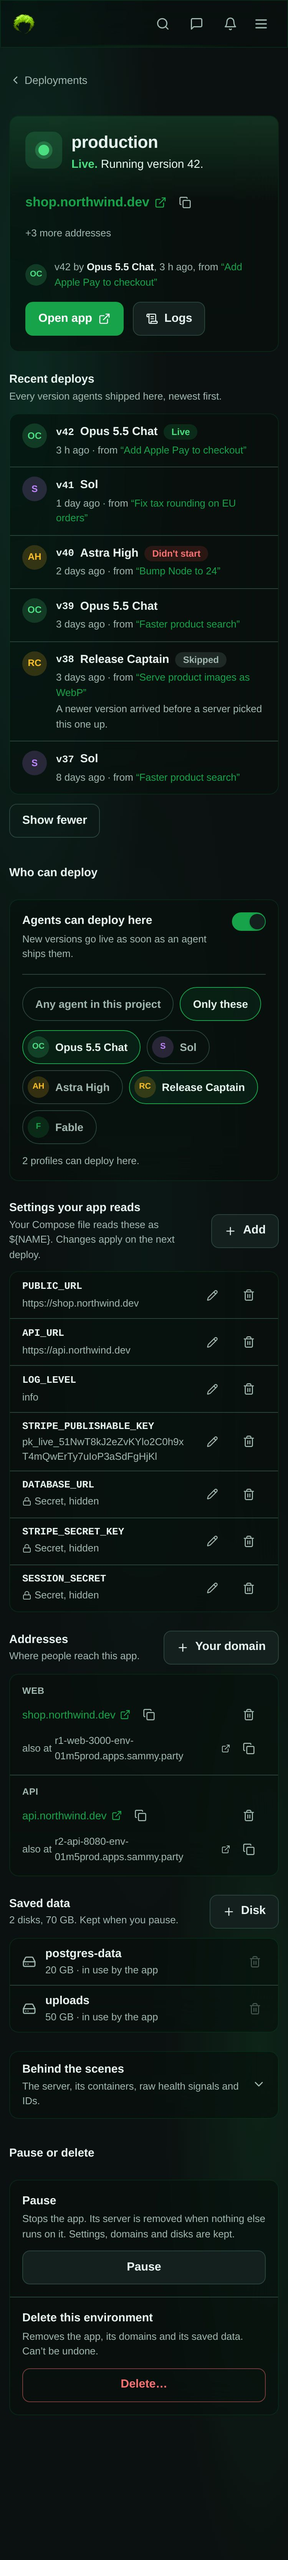
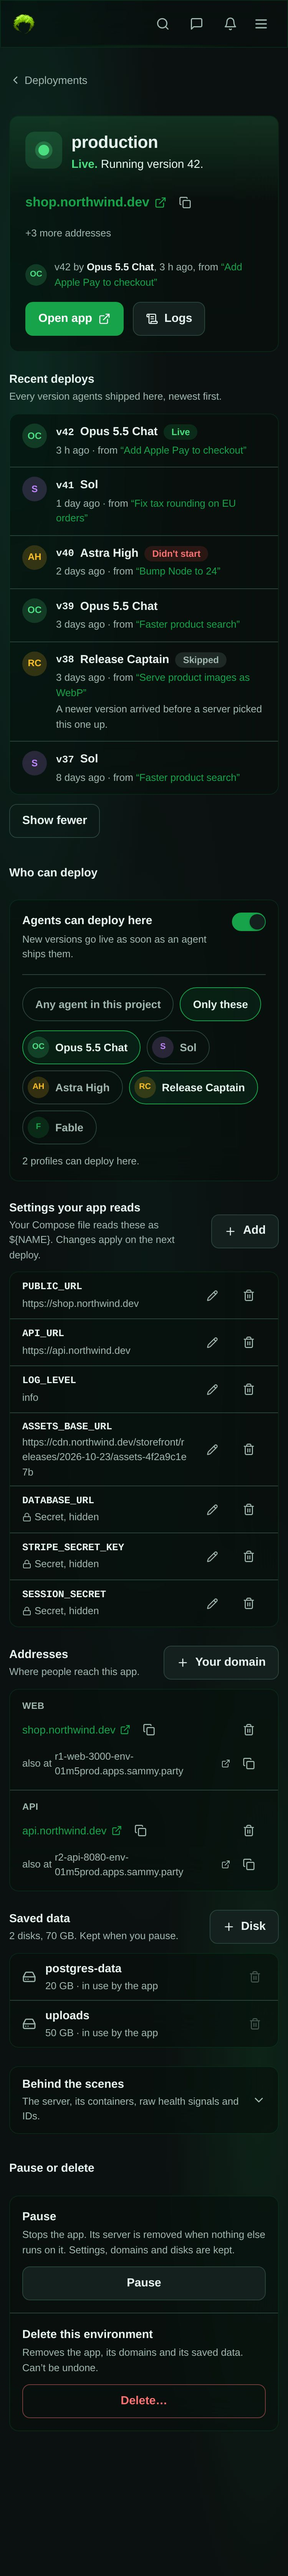
test(web): a long URL instead of a key-shaped value in the audit fixtures
The fake publishable key matched gitleaks' generic-api-key rule. A long CDN
URL keeps the long-value case for the settings rows without looking like a
credential. The two live screenshots that show it are refreshed.

diff --git a/apps/web/tests/playwright/deployments-ui-fixtures.ts b/apps/web/tests/playwright/deployments-ui-fixtures.ts
@@ -603,7 +603,11 @@ export const CONFIG: Record<string, unknown> = {
       variable('PUBLIC_URL', 'https://shop.northwind.dev'),
       variable('API_URL', 'https://api.northwind.dev'),
       variable('LOG_LEVEL', 'info'),
-      variable('ASSETS_BASE_URL', 'https://cdn.northwind.dev/storefront/releases/2026-10-23/assets-4f2a9c1e7b'),
+      // A long unbroken value, for the settings rows' wrapping.
+      variable(
+        'ASSETS_BASE_URL',
+        'https://cdn.northwind.dev/storefront/releases/2026-10-23/assets-4f2a9c1e7b'
+      ),
       variable('DATABASE_URL', null, true),
       variable('STRIPE_SECRET_KEY', null, true),
       variable('SESSION_SECRET', null, true),
